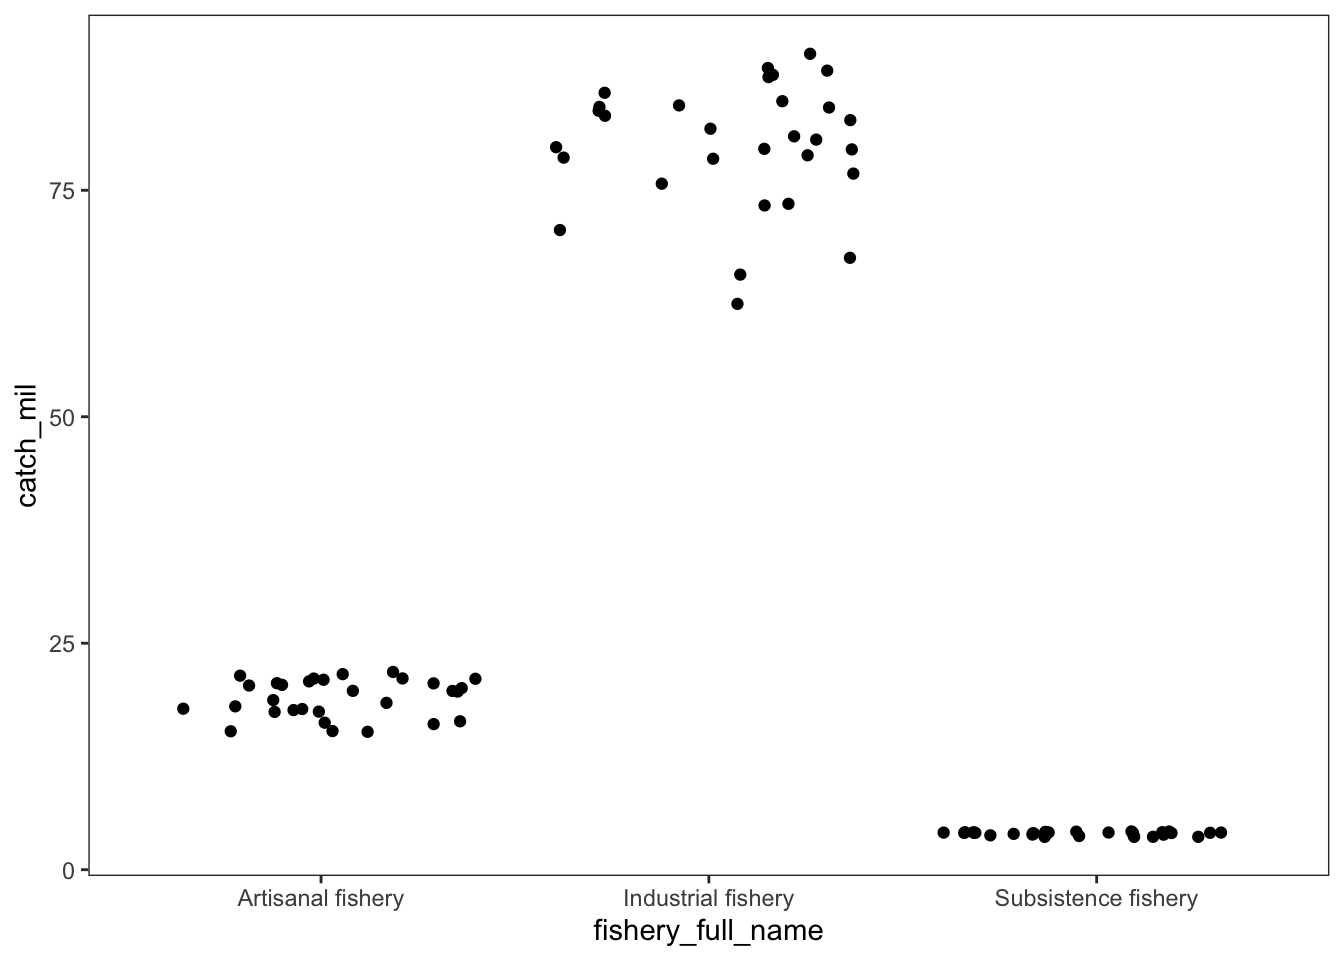
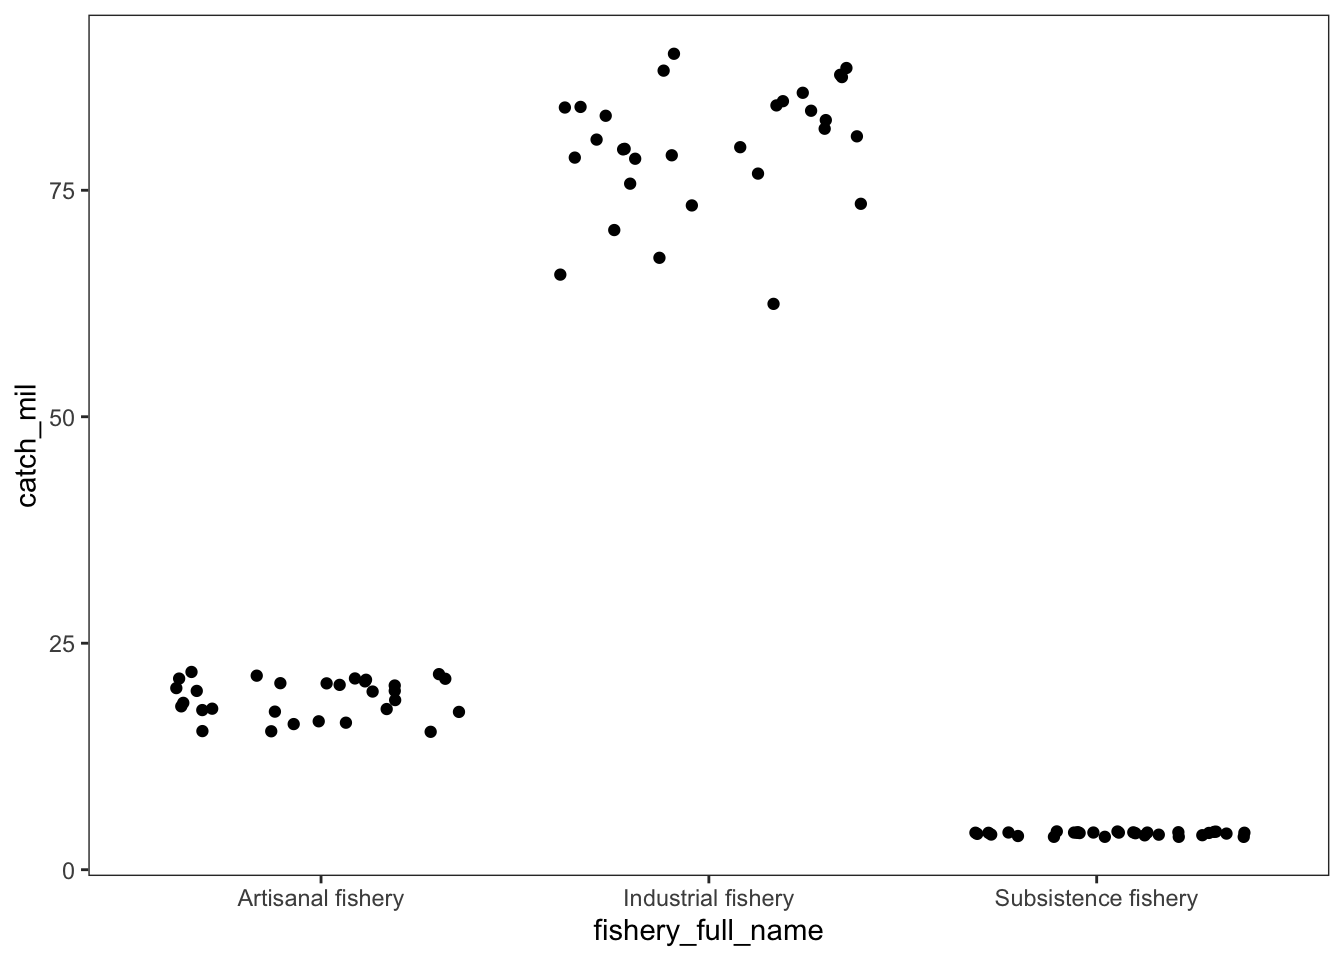
editing visualizing

diff --git a/docs/05_visualizing.html b/docs/05_visualizing.html
@@ -271,7 +271,7 @@ Making your <code>ggplot()</code> objects look cohesive
 <div class="cell">
 <div class="sourceCode cell-code" id="cb2"><pre class="sourceCode r code-with-copy"><code class="sourceCode r"><span id="cb2-1"><a href="#cb2-1" aria-hidden="true" tabindex="-1"></a>artisanal <span class="ot">&lt;-</span> global_catch_clean <span class="sc">%&gt;%</span> </span>
 <span id="cb2-2"><a href="#cb2-2" aria-hidden="true" tabindex="-1"></a>  <span class="co"># filtering for artisanal fishery only</span></span>
-<span id="cb2-3"><a href="#cb2-3" aria-hidden="true" tabindex="-1"></a>  <span class="fu">filter</span>(fishery_type <span class="sc">==</span> <span class="st">"artisanal"</span>)</span>
+<span id="cb2-3"><a href="#cb2-3" aria-hidden="true" tabindex="-1"></a>  <span class="fu">filter</span>(fishery_type <span class="sc">==</span> <span class="st">"artisanal_mil_tons"</span>)</span>
 <span id="cb2-4"><a href="#cb2-4" aria-hidden="true" tabindex="-1"></a></span>
 <span id="cb2-5"><a href="#cb2-5" aria-hidden="true" tabindex="-1"></a><span class="co"># global ggplot call</span></span>
 <span id="cb2-6"><a href="#cb2-6" aria-hidden="true" tabindex="-1"></a><span class="fu">ggplot</span>(<span class="at">data =</span> artisanal, <span class="co"># the data frame</span></span>
